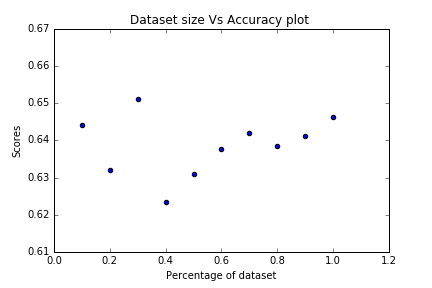
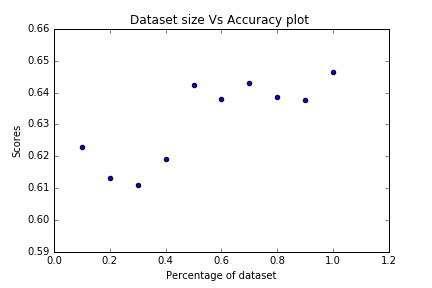
Corrected feature selection

diff --git a/Phase2/decTreeClassifier.py b/Phase2/decTreeClassifier.py
@@ -9,20 +9,20 @@ import matplotlib.pyplot as plt
 from feature_selection import feature_selection
 
 #Loading data
-x_train = np.loadtxt('../Data/x_train.txt')
-y_train_binary = np.loadtxt('../Data/y_train_binary.txt')
-x_test = np.loadtxt('../Data/x_test.txt')
-y_test_binary = np.loadtxt('../Data/y_test_binary.txt')
-x_orig_train = np.loadtxt('../Data/x_orig_train.txt')
-y_orig_train_binary = np.loadtxt('../Data/y_orig_train_binary.txt')
+x_train = np.loadtxt('../Data_66/x_train.txt')
+y_train_binary = np.loadtxt('../Data_66/y_train_binary.txt')
+x_test = np.loadtxt('../Data_66/x_test.txt')
+y_test_binary = np.loadtxt('../Data_66/y_test_binary.txt')
+x_orig_train = np.loadtxt('../Data_66/x_orig_train.txt')
+y_orig_train_binary = np.loadtxt('../Data_66/y_orig_train_binary.txt')
 
 #Modeling classifier
 clf = dtc(max_depth = 3)
 
 #Calling feature selection methods
 fs = feature_selection()
-#clf,x_train,x_test,y_out = fs.PCASelection(x_train,y_train_binary,x_test,y_test_binary,clf)
-clf,x_train,x_test,y_out = fs.KBest(x_train,y_train_binary,x_test,y_test_binary,clf)
+clf,x_train,x_test,y_out = fs.PCASelection(x_train,y_train_binary,x_test,y_test_binary,clf)
+#clf,x_train,x_test,y_out = fs.KBest(x_train,y_train_binary,x_test,y_test_binary,clf)
 
 #Printing scores
 clf.fit (x_train,y_train_binary)

diff --git a/Phase2/feature_selection.py b/Phase2/feature_selection.py
@@ -9,7 +9,7 @@ class feature_selection:
     ,clf):
         print "\nApplying SelectKBest"
         skbest_scores = {}
-        for nf in list(range(1,59)):
+        for nf in list(range(1,60)):
             skbest = SelectKBest(f_classif, k = nf )
             x_train_new = skbest.fit_transform(x_train,y_train_binary)
             x_test_new = skbest.transform(x_test)
@@ -36,7 +36,7 @@ class feature_selection:
     ,clf):
         #Applying PCA
         pca_scores = {}
-        for nf in list(range(1,59)):
+        for nf in list(range(1,60)):
             pca = PCA(n_components= nf )
             x_train_new = pca.fit_transform(x_train)
             x_test_new = pca.transform(x_test)
